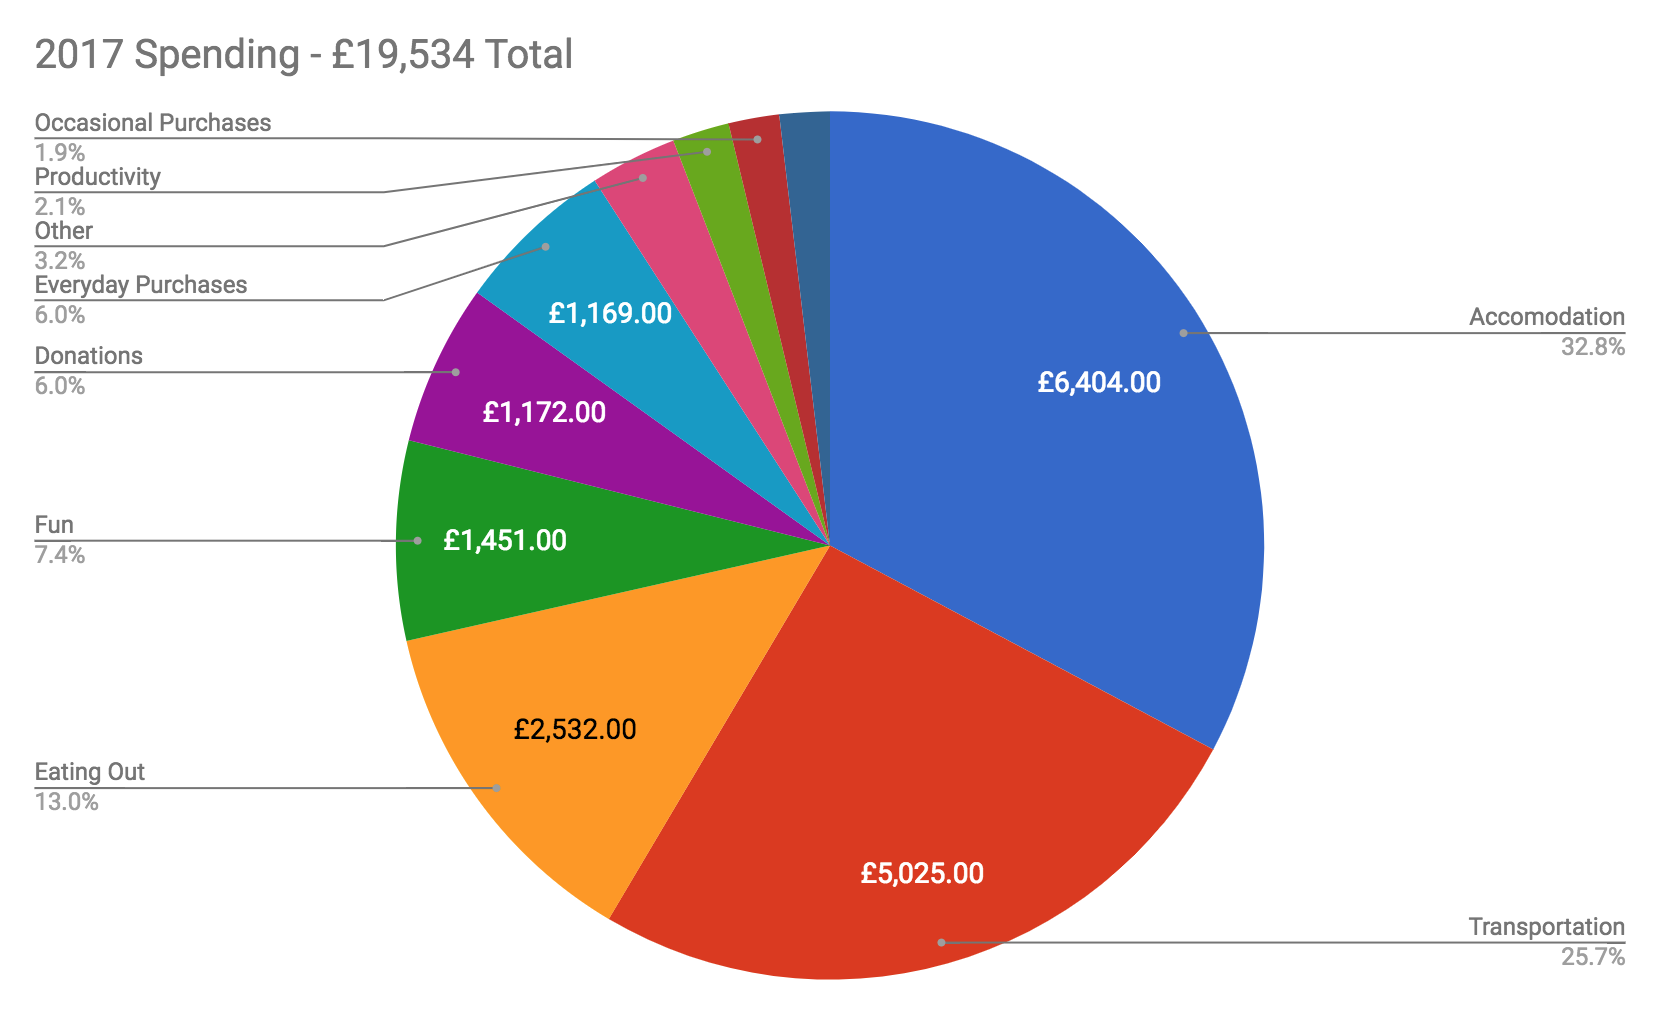
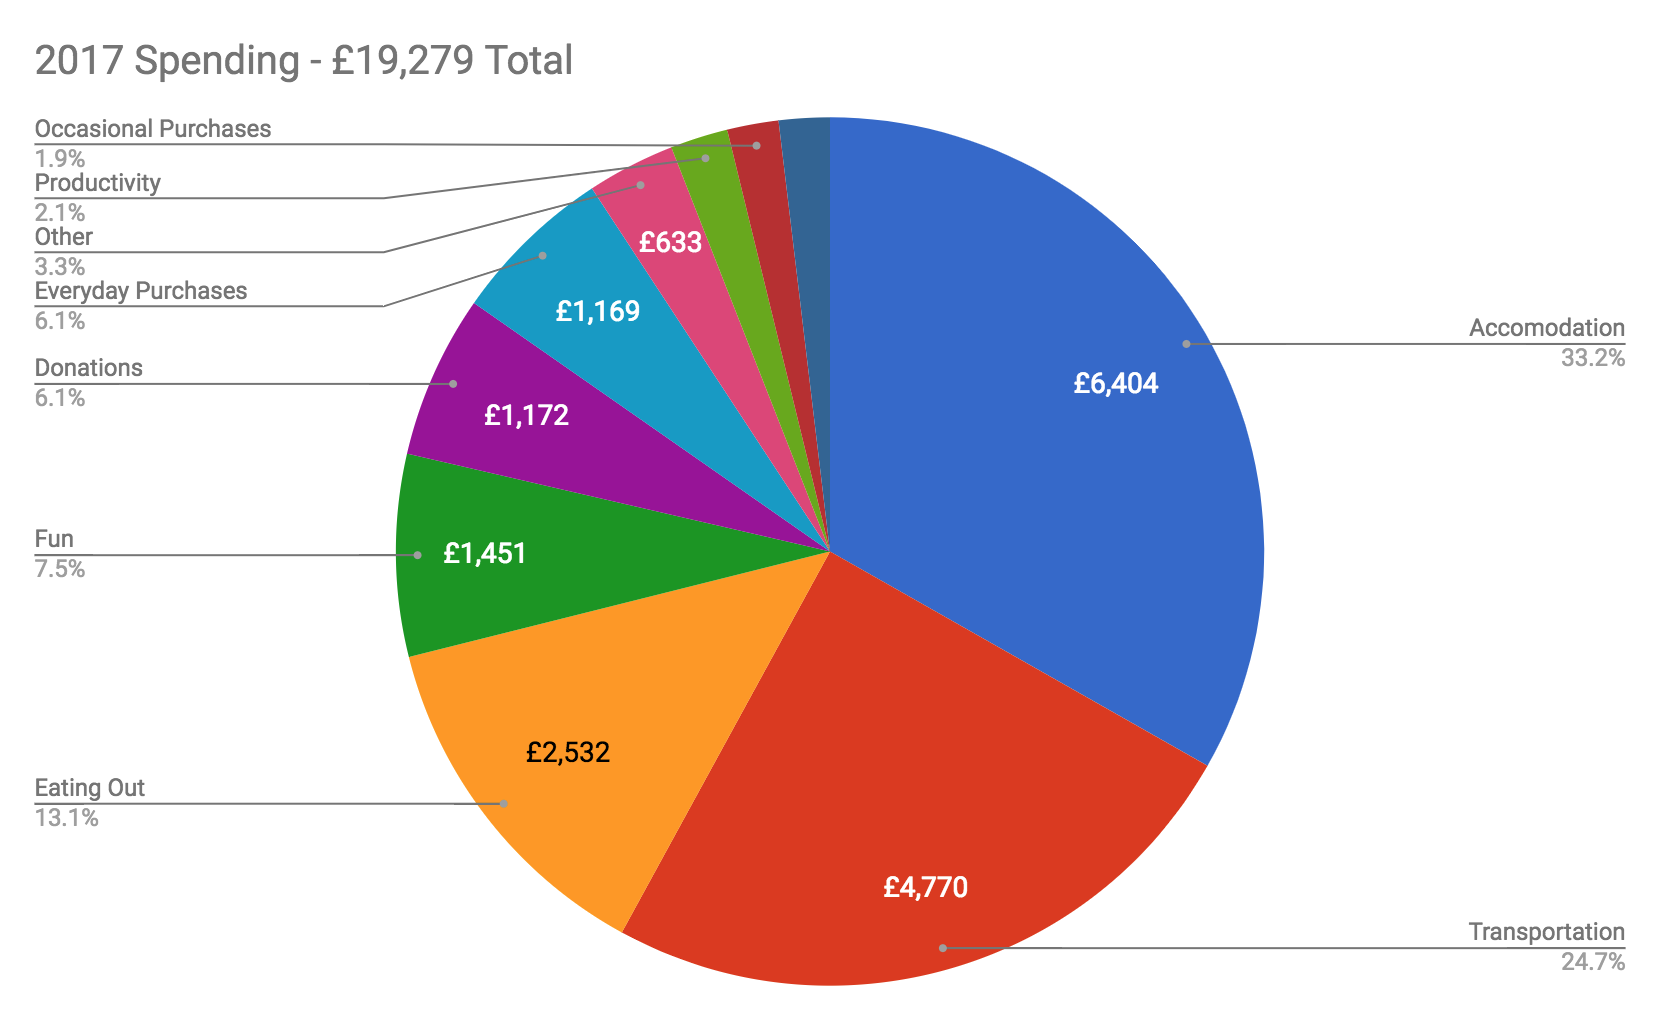
Adjust Seoul trip cost

diff --git a/money.html b/money.html
@@ -98,7 +98,7 @@ Tracking my personal spending.
     <tr>
     <td data-sheets-value="{&quot;1&quot;:3,&quot;3&quot;:42826}" data-sheets-numberformat="[null,5,&quot;mmm\&quot;  \&quot;yyyy&quot;]">Apr 2017</td>
     <td data-sheets-value="{&quot;1&quot;:3,&quot;3&quot;:601}" data-sheets-numberformat="[null,4,&quot;[$&pound;]#,##0&quot;,1]">&pound;601</td>
-    <td data-sheets-value="{&quot;1&quot;:3,&quot;3&quot;:296}" data-sheets-numberformat="[null,4,&quot;[$&pound;]#,##0&quot;,1]">&pound;296</td>
+    <td data-sheets-value="{&quot;1&quot;:3,&quot;3&quot;:41}" data-sheets-numberformat="[null,4,&quot;[$&pound;]#,##0&quot;,1]">&pound;41</td>
     <td data-sheets-value="{&quot;1&quot;:3,&quot;3&quot;:162}" data-sheets-numberformat="[null,4,&quot;[$&pound;]#,##0&quot;,1]">&pound;162</td>
     <td data-sheets-value="{&quot;1&quot;:3,&quot;3&quot;:52}" data-sheets-numberformat="[null,4,&quot;[$&pound;]#,##0&quot;,1]">&pound;52</td>
     <td data-sheets-value="{&quot;1&quot;:3,&quot;3&quot;:121}" data-sheets-numberformat="[null,4,&quot;[$&pound;]#,##0&quot;,1]">&pound;121</td>
@@ -107,7 +107,7 @@ Tracking my personal spending.
     <td data-sheets-value="{&quot;1&quot;:3,&quot;3&quot;:43}" data-sheets-numberformat="[null,4,&quot;[$&pound;]#,##0&quot;,1]">&pound;43</td>
     <td data-sheets-value="{&quot;1&quot;:3,&quot;3&quot;:0}" data-sheets-numberformat="[null,4,&quot;[$&pound;]#,##0&quot;,1]">&pound;0</td>
     <td data-sheets-value="{&quot;1&quot;:3,&quot;3&quot;:46}" data-sheets-numberformat="[null,4,&quot;[$&pound;]#,##0&quot;,1]">&pound;46</td>
-    <td data-sheets-value="{&quot;1&quot;:3,&quot;3&quot;:1534}" data-sheets-numberformat="[null,4,&quot;[$&pound;]#,##0&quot;,1]">&pound;1,534</td>
+    <td data-sheets-value="{&quot;1&quot;:3,&quot;3&quot;:1279}" data-sheets-numberformat="[null,4,&quot;[$&pound;]#,##0&quot;,1]">&pound;1,279</td>
     </tr>
     <tr>
     <td data-sheets-value="{&quot;1&quot;:3,&quot;3&quot;:42856}" data-sheets-numberformat="[null,5,&quot;mmm\&quot;  \&quot;yyyy&quot;]">May 2017</td>
@@ -224,7 +224,7 @@ Tracking my personal spending.
     <tr>
     <td data-sheets-value="{&quot;1&quot;:3,&quot;3&quot;:2017}">2017</td>
     <td data-sheets-value="{&quot;1&quot;:3,&quot;3&quot;:6404}" data-sheets-numberformat="[null,4,&quot;[$&pound;]#,##0&quot;,1]">&pound;6,404</td>
-    <td data-sheets-value="{&quot;1&quot;:3,&quot;3&quot;:5025}" data-sheets-numberformat="[null,4,&quot;[$&pound;]#,##0&quot;,1]">&pound;5,025</td>
+    <td data-sheets-value="{&quot;1&quot;:3,&quot;3&quot;:4770}" data-sheets-numberformat="[null,4,&quot;[$&pound;]#,##0&quot;,1]">&pound;4,770</td>
     <td data-sheets-value="{&quot;1&quot;:3,&quot;3&quot;:2532}" data-sheets-numberformat="[null,4,&quot;[$&pound;]#,##0&quot;,1]">&pound;2,532</td>
     <td data-sheets-value="{&quot;1&quot;:3,&quot;3&quot;:1451}" data-sheets-numberformat="[null,4,&quot;[$&pound;]#,##0&quot;,1]">&pound;1,451</td>
     <td data-sheets-value="{&quot;1&quot;:3,&quot;3&quot;:1172}" data-sheets-numberformat="[null,4,&quot;[$&pound;]#,##0&quot;,1]">&pound;1,172</td>
@@ -233,7 +233,7 @@ Tracking my personal spending.
     <td data-sheets-value="{&quot;1&quot;:3,&quot;3&quot;:414}" data-sheets-numberformat="[null,4,&quot;[$&pound;]#,##0&quot;,1]">&pound;414</td>
     <td data-sheets-value="{&quot;1&quot;:3,&quot;3&quot;:369}" data-sheets-numberformat="[null,4,&quot;[$&pound;]#,##0&quot;,1]">&pound;369</td>
     <td data-sheets-value="{&quot;1&quot;:3,&quot;3&quot;:365}" data-sheets-numberformat="[null,4,&quot;[$&pound;]#,##0&quot;,1]">&pound;365</td>
-    <td data-sheets-value="{&quot;1&quot;:3,&quot;3&quot;:19534}" data-sheets-numberformat="[null,4,&quot;[$&pound;]#,##0&quot;,1]">&pound;19,534</td>
+    <td data-sheets-value="{&quot;1&quot;:3,&quot;3&quot;:19279}" data-sheets-numberformat="[null,4,&quot;[$&pound;]#,##0&quot;,1]">&pound;19,279</td>
     </tr>
     </tbody>
     </table>
